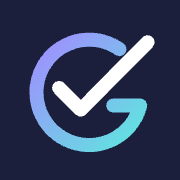
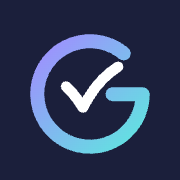
Логотип: вариант 2 (G с плавной галочкой)
Claude-Session: https://claude.ai/code/session_01F178ksqhvQqdtz5pvBkBGR

diff --git a/sw.js b/sw.js
@@ -1,5 +1,5 @@
 // Сервис-воркер: установка сайта как приложения и работа без интернета
-const C='plan-v6';
+const C='plan-v7';
 self.addEventListener('install',()=>self.skipWaiting());
 self.addEventListener('activate',e=>e.waitUntil(clients.claim()));
 self.addEventListener('fetch',e=>{const u=new URL(e.request.url);if(e.request.method!=='GET'||u.origin!==location.origin)return;e.respondWith(fetch(e.request).then(r=>{const c=r.clone();caches.open(C).then(x=>x.put(e.request,c));return r}).catch(()=>caches.match(e.request)))});

diff --git a/index.html b/index.html
@@ -1036,7 +1036,7 @@ input[type=time].sgnum{width:96px}
 <div id="toast" hidden></div>
 <div id="modal" hidden></div>
 
-<script type="module" src="app.js?v=20261116o"></script>
+<script type="module" src="app.js?v=20261116p"></script>
 <script>if("serviceWorker" in navigator)navigator.serviceWorker.register("sw.js").catch(()=>{})</script>
 </body>
 </html>
